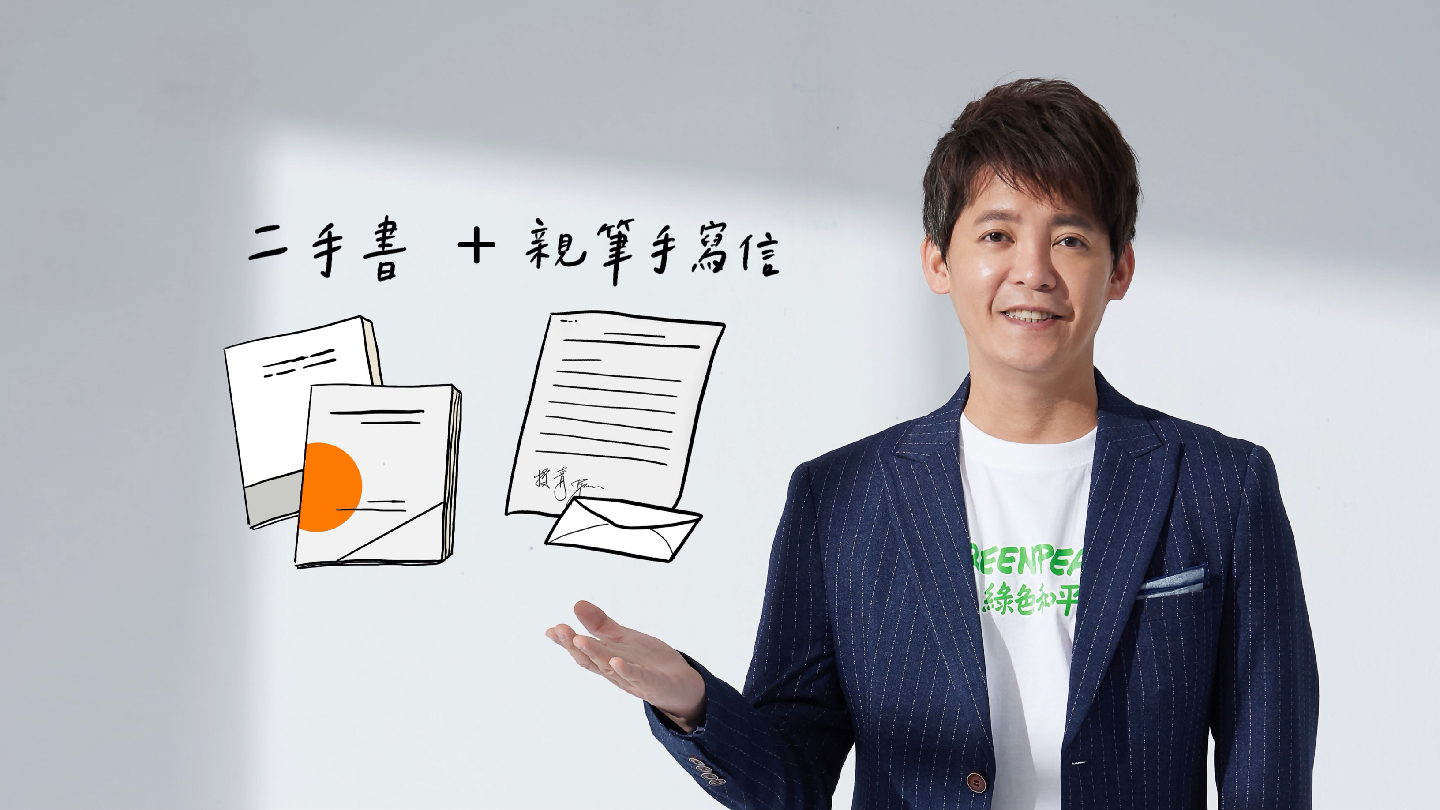
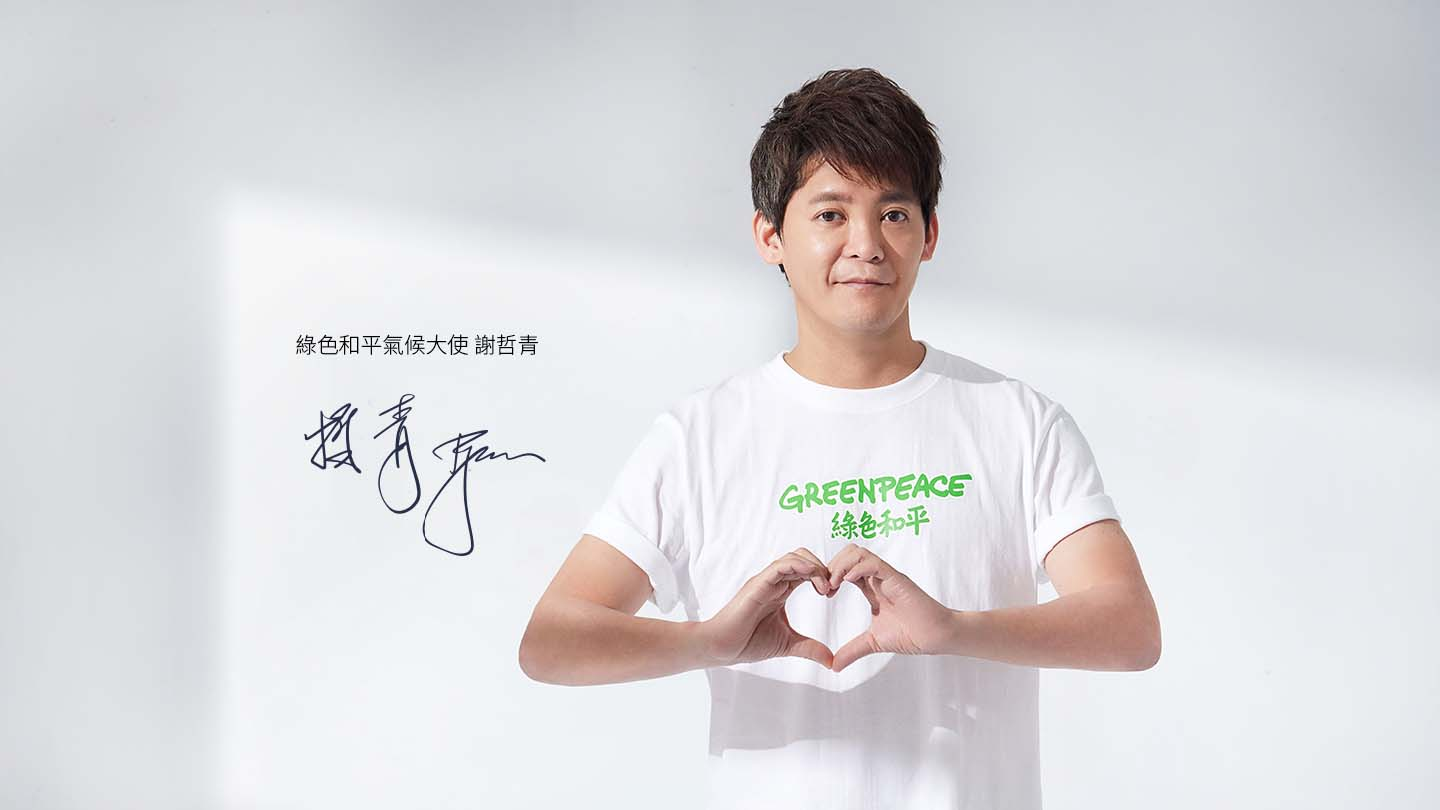
update tw/climate-2022earthday content

diff --git a/apps/tw/climate-2022earthday/description.js b/apps/tw/climate-2022earthday/description.js
@@ -52,11 +52,6 @@ const Description = ({ setSurveyPage }) => {
                 <Text as="p" color={'black'} {...paragraphProps} mb={0}>
                   4月22日是世界地球日，邀請你完成心理測驗，找出最適合你的投資地球方法，讓我們一起用行動投資地球，改善氣候，擁抱好生活。
                 </Text>
-                <Text as="p" color={'black'} {...paragraphProps} mb={0}>
-                  <strong>
-                    完成測驗，就有機會抽中綠色和平氣候大使謝哲青的驚喜二手書與手寫信一封。
-                  </strong>
-                </Text>
               </Box>
             </LazyShow>
             <Box>
